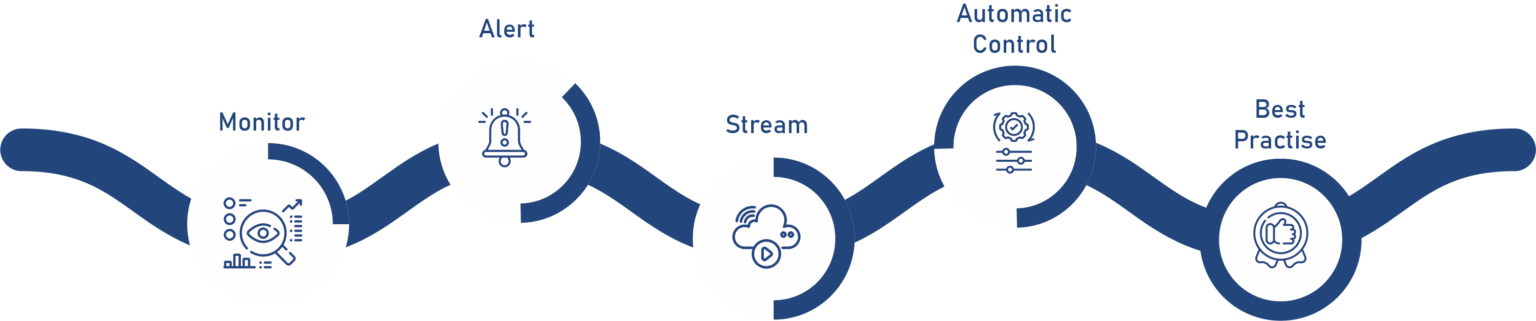
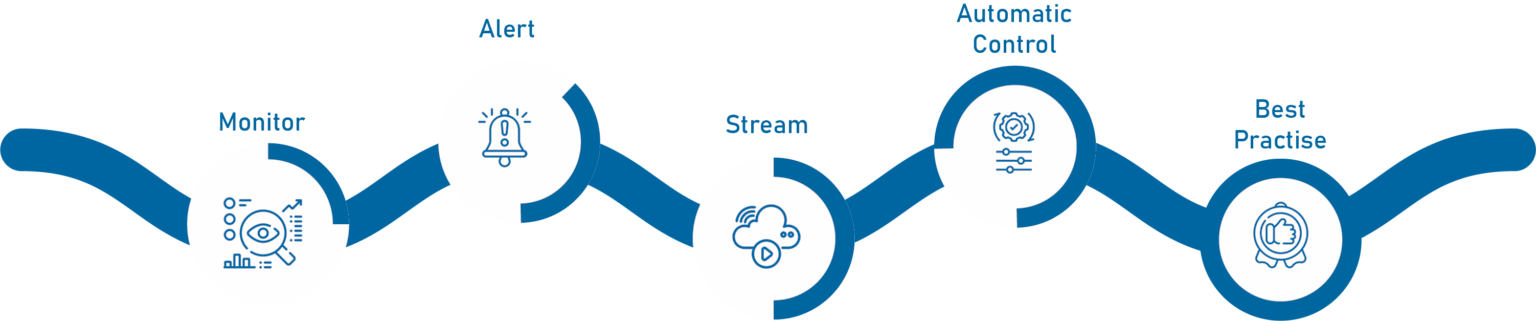
Updated homepage design and color theme

diff --git a/assets/css/main.css b/assets/css/main.css
@@ -4,40 +4,42 @@
   --heading-font: "Raleway",  sans-serif;
   --nav-font: "Poppins",  sans-serif;
 }
+/* ======================================
+   🌊 Aqua Royal Theme - Elegant & Calm
+   ====================================== */
 
-/* Global Colors - The following color variables are used throughout the website. Updating them here will change the color scheme of the entire website */
 :root { 
-  --background-color: #ffffff; /* Background color for the entire website, including individual sections */
-  --default-color: #444444; /* Default color used for the majority of the text content across the entire website */
-  --heading-color: #37423b; /* Color for headings, subheadings and title throughout the website */
-  --accent-color: #134080; /* Accent color that represents your brand on the website. It's used for buttons, links, and other elements that need to stand out */
-  --surface-color: #ffffff; /* The surface color is used as a background of boxed elements within sections, such as cards, icon boxes, or other elements that require a visual separation from the global background. */
-  --contrast-color: #ffffff; /* Contrast color for text, ensuring readability against backgrounds of accent, heading, or default colors. */
+  /* 🎨 الألوان العامة */
+  --background-color: #ffffff;     /* خلفية عامة فاتحة جدًا ونظيفة */
+  --default-color: #1C2E40;        /* نصوص أساسية - رمادي أزرق أنيق */
+  --heading-color: #1B395B;        /* عناوين الموقع - أزرق ملكي غامق */
+  --accent-color: #2E86C1;         /* اللون المميز للأزرار والروابط */
+  --surface-color: #f3f3f3;        /* خلفية الكروت والعناصر المنفصلة */
+  --contrast-color: #FFFFFF;       /* نص داخل الأزرار أو الخلفيات الغامقة */
 }
 
-/* Nav Menu Colors - The following color variables are used specifically for the navigation menu. They are separate from the global colors to allow for more customization options */
+/* 🧭 ألوان القائمة */
 :root {
-  --nav-color: #272828;  /* The default color of the main navmenu links */
-  --nav-hover-color: #134080; /* Applied to main navmenu links when they are hovered over or active */
-  --nav-mobile-background-color: #ffffff; /* Used as the background color for mobile navigation menu */
-  --nav-dropdown-background-color: #ffffff; /* Used as the background color for dropdown items that appear when hovering over primary navigation items */
-  --nav-dropdown-color: #272828; /* Used for navigation links of the dropdown items in the navigation menu. */
-  --nav-dropdown-hover-color: #134080; /* Similar to --nav-hover-color, this color is applied to dropdown navigation links when they are hovered over. */
+  --nav-color: #1B395B;                 /* النص العادي في القوائم */
+  --nav-hover-color: #2E86C1;           /* عند المرور بالماوس */
+  --nav-mobile-background-color: #F7FAFC; /* خلفية القائمة في الموبايل */
+  --nav-dropdown-background-color: #f3f3f3; /* خلفية القوائم المنسدلة */
+  --nav-dropdown-color: #1C2E40;        /* نصوص القوائم المنسدلة */
+  --nav-dropdown-hover-color: #2E86C1;  /* تأثير hover داخل القائمة المنسدلة */
 }
 
-/* Color Presets - These classes override global colors when applied to any section or element, providing reuse of the sam color scheme. */
-
+/* 🌗 الثيمات */
 .light-background {
-  --background-color: #f9f9f9;
-  --surface-color: #ffffff;
+  --background-color: #f3f3f3;
+  --surface-color: #FFFFFF;
 }
 
 .dark-background {
-  --background-color: #060606;
-  --default-color: #ffffff;
-  --heading-color: #ffffff;
-  --surface-color: #252525;
-  --contrast-color: #ffffff;
+  --background-color: #16222A; /* خلفية ليليّة فخمة */
+  --default-color: #EAF2F4;    /* نصوص فاتحة */
+  --heading-color: #FFFFFF;    /* عناوين بيضاء أنيقة */
+  --surface-color: #1E2E38;    /* كروت غامقة */
+  --contrast-color: #FFFFFF;
 }
 
 /* Smooth scroll */

diff --git a/index.html b/index.html
@@ -230,7 +230,7 @@
               Our mobile app gives you full control, real-time data, and smart recommendations — anytime, anywhere.
             </p>
 
-            <ul style="list-style:none; padding-left:0; color:#134080; font-size:1.05rem;">
+            <ul style="list-style:none; padding-left:0; font-size:1.05rem;">
               <li><i class="bi bi-check-circle"></i> <strong>Monitor Water Quality</strong></li>
               <li><i class="bi bi-check-circle"></i> <strong>Get Smart Insights</strong></li>
               <li><i class="bi bi-check-circle"></i> <strong>Control Devices Remotely</strong> </li>
@@ -247,7 +247,7 @@
     </section><!-- /Smart Farm App Section -->
 
     <!-- Features Section -->
-    <section id="features" class="features section">
+    <!-- <section id="features" class="features section">
 
       <div class="container">
 
@@ -258,48 +258,49 @@
               <i class="fi fi-br-temperature-high" style="color: #ffbb2c;"></i>
               <h3><a href="" class="stretched-link">Temperature Sensor</a></h3>
             </div>
-          </div><!-- End Feature Item -->
+          </div>
 
           <div class="col-lg-3 col-md-4" data-aos="fade-up" data-aos-delay="200">
             <div class="features-item">
               <i class="fi fi-br-chart-scatter-bubble" style="color: #5578ff;"></i>
               <h3><a href="" class="stretched-link">DO Sensor</a></h3>
             </div>
-          </div><!-- End Feature Item -->
+          </div>
 
           <div class="col-lg-3 col-md-4" data-aos="fade-up" data-aos-delay="300">
             <div class="features-item">
               <i class="fi fi-br-bolt" style="color: #e80368;"></i>
               <h3><a href="" class="stretched-link">EC Sensor</a></h3>
             </div>
-          </div><!-- End Feature Item -->
+          </div>
 
           <div class="col-lg-3 col-md-4" data-aos="fade-up" data-aos-delay="400">
             <div class="features-item">
               <i class="fi fi-br-water" style="color: #e361ff;"></i>
               <h3><a href="" class="stretched-link">Turbidity Sensor</a></h3>
             </div>
-          </div><!-- End Feature Item -->
+          </div>
 
           <div class="col-lg-3 col-md-4" data-aos="fade-up" data-aos-delay="500">
             <div class="features-item">
               <i class="fi fi-br-fish-bones" style="color: #47aeff;"></i>
               <h3><a href="" class="stretched-link">Ammonia Sensor</a></h3>
             </div>
-          </div><!-- End Feature Item -->
+          </div>
 
           <div class="col-lg-3 col-md-4" data-aos="fade-up" data-aos-delay="600">
             <div class="features-item">
               <i class="fi fi-br-flask" style="color: #ffa76e;"></i>
               <h3><a href="" class="stretched-link">PH Sensor</a></h3>
             </div>
-          </div><!-- End Feature Item -->
+          </div>
 
         </div>
 
       </div>
 
-    </section><!-- /Features Section -->
+    </section> -->
+    <!-- /Features Section -->
 
     <!-- Diagram Section -->
     <section id="about" class="about section">
